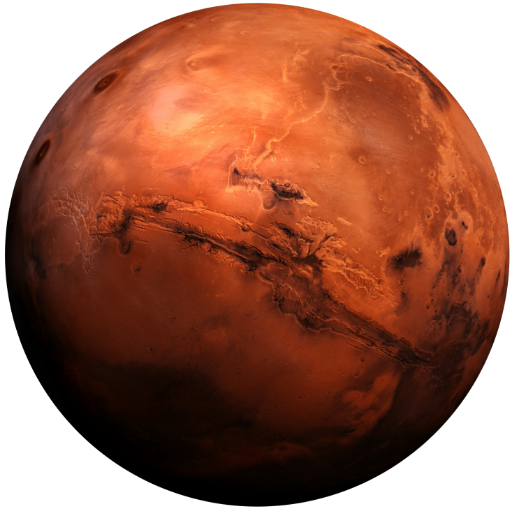
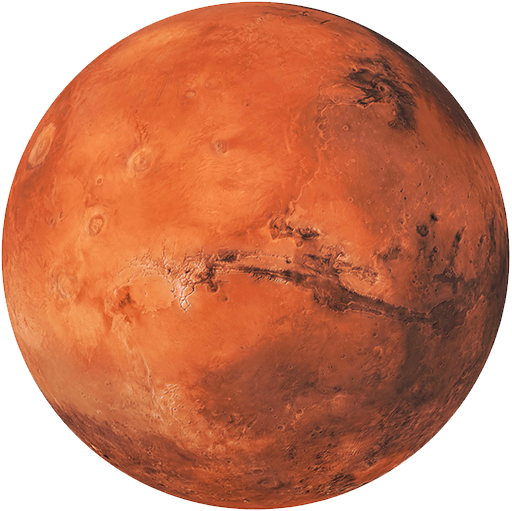
shadow added on globe

diff --git a/src/index.css b/src/index.css
@@ -74,6 +74,7 @@ ul{
   padding: 0;
 }
 /* header css start */
+
 .menu-logo {
   /* text-align: center;
   position: absolute;
@@ -374,6 +375,26 @@ ul{
 }
 /* header css end */
 /* banner css start */
+.globe-img {
+  border-radius: 100%;
+  /* padding: 5px; */
+  position: relative;
+}
+
+.globe-img:after {
+  content: '';
+  position: absolute;
+  width: 99%;
+  height: 100%;
+  top: 0;
+  /* background-color: #000; */
+  left: 0;
+  right: 0;
+  border-radius: 100%;
+  background-image: linear-gradient(to top, #000000fc, #000000bf, #00000063, #00000000, #9f512900);
+  transform: rotate(38deg);
+  margin: 0 auto;
+}
 .banner-heading {
   display: flex;
   align-items: center;

diff --git a/src/App.js b/src/App.js
@@ -89,7 +89,9 @@ function App() {
             <h2>
               meta
             </h2>
+            <div className='globe-img'>
             <img src={globe} />
+            </div>
             {/* <div>
               <GLTFModel src={modelPath}>
                 <AmbientLight color={0xffffff} />
